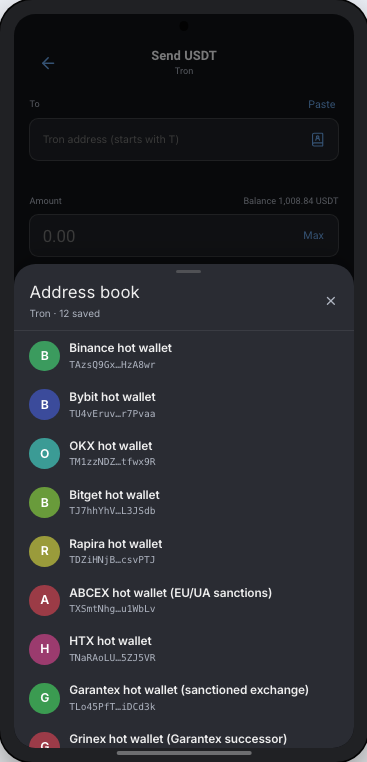
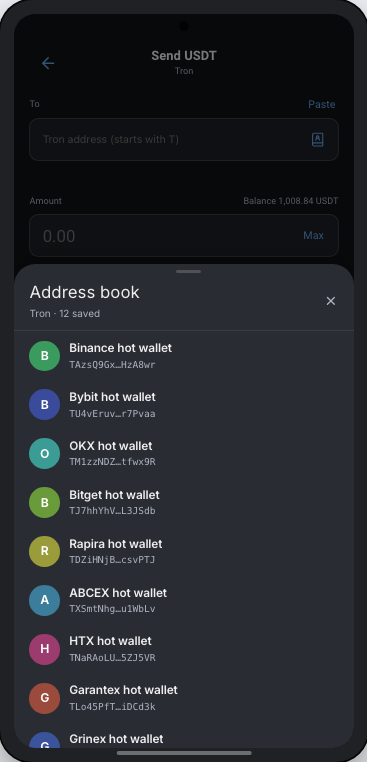
Address book: neutral comments (owner names only) and a CI guard against risk wording

diff --git a/tests/address-book.test.ts b/tests/address-book.test.ts
@@ -13,6 +13,10 @@ describe("the shipped address book (public/address-book.json)", () => {
   it("passes the strict validator: every address is valid for its network, no duplicates", async () => {
     expect(await validateAddressBook(file, subtle)).toEqual([]);
   });
+  it("names owners only: no comment states a risk reason", () => {
+    const wording = /sanction|ofac|sdn|blacklist|frozen|mixer|illicit|scam|hack|stolen/i;
+    expect(parseAddressBook(file).filter((e) => wording.test(e.comment))).toEqual([]);
+  });
   it("has entries for Tron, Ethereum and BSC, with the saved comments", () => {
     const entries = parseAddressBook(file);
     expect(entries).toHaveLength(24);
@@ -37,6 +41,10 @@ describe("validateAddressBook", () => {
     ["an empty comment", { network: "TRON", address: TRON, comment: " " }, "comment must be"],
     ["a too long comment", { network: "TRON", address: TRON, comment: "x".repeat(81) }, "comment must be"],
     ["an extra key (a score, say)", { network: "TRON", address: TRON, comment: "c", risk_score: 9 }, 'unexpected key "risk_score"'],
+    ["a risk reason in the comment (sanctions)", { network: "TRON", address: TRON, comment: "Exchange (EU sanctions)" }, "not a risk reason"],
+    ["a risk reason in the comment (OFAC SDN)", { network: "TRON", address: TRON, comment: "OFAC SDN: Someone" }, "not a risk reason"],
+    ["a risk reason in the comment (blacklist)", { network: "TRON", address: TRON, comment: "Tether blacklist" }, "not a risk reason"],
+    ["a risk reason in the comment (mixer)", { network: "ETH", address: EVM, comment: "Sanctioned mixer" }, "not a risk reason"],
     ["surrounding spaces", { network: "TRON", address: ` ${TRON}`, comment: "c" }, "without surrounding spaces"],
   ])("rejects %s", async (_why, entry, message) => {
     expect((await validateAddressBook(book([entry]), subtle)).join("\n")).toContain(message);

diff --git a/src/send/address-book-validate.ts b/src/send/address-book-validate.ts
@@ -13,6 +13,12 @@ export function isValidEvmAddress(address: string): boolean {
   return [...hex].every((c, i) => /\d/.test(c) || (parseInt(hash[i]!, 16) >= 8 ? c === c.toUpperCase() : c === c.toLowerCase()));
 }
 
+/**
+ * A saved name says WHO an address is, never WHY it might be risky: the Send screen's rule is that a reason is not
+ * disclosed anywhere, and the book sits right above the risk check. These words are therefore refused in a comment.
+ */
+export const RISK_WORDING = /sanction|ofac|\bsdn\b|blacklist|black-list|frozen|mixer|laundering|illicit|scam|hack|stolen|exploit|terror|criminal|fraud|designated/i;
+
 export async function validateAddressBook(json: unknown, subtle: SubtleCrypto | null = globalThis.crypto?.subtle ?? null): Promise<string[]> {
   const root = json as { version?: unknown; entries?: unknown } | null;
   if (!root || typeof root !== "object" || root.version !== 1 || !Array.isArray(root.entries)) return ['address book must be {"version": 1, "entries": [...]}'];
@@ -39,6 +45,8 @@ export async function validateAddressBook(json: unknown, subtle: SubtleCrypto | 
     }
     if (typeof e.comment !== "string" || e.comment.trim() === "" || e.comment.length > MAX_COMMENT_LENGTH) {
       errors.push(`${where}: comment must be 1-${MAX_COMMENT_LENGTH} characters`);
+    } else if (RISK_WORDING.test(e.comment)) {
+      errors.push(`${where}: comment must name the owner, not a risk reason (found "${RISK_WORDING.exec(e.comment)![0]}")`);
     }
   }
   return errors;

diff --git a/CONTRIBUTING.md b/CONTRIBUTING.md
@@ -283,7 +283,7 @@ this address" until the live Worker is connected.
 of the screen; dismiss with Esc, the close button, a tap on the dimmed area or by dragging it down) with the saved
 recipients for the network being sent on; choosing one fills the field exactly as typing would (so it is validated and
 risk-checked). The list is `public/address-book.json`: `{"version": 1, "entries": [{"network": "TRON" | "ETH" | "BSC",
-"address": "...", "comment": "..."}]}`, at most 200 entries, comments up to 80 characters. `npm run validate:fixtures`
+"address": "...", "comment": "..."}]}`, at most 200 entries, comments up to 80 characters that name the owner ("Binance hot wallet"), never a risk reason: CI refuses words such as sanctions, OFAC, blacklist, frozen or mixer. `npm run validate:fixtures`
 checks every address for its network (Tron Base58Check; EVM `0x` + 40 hex, EIP-55 when mixed case), rejects duplicates and
 extra keys. Send is Tron-only for now, so only the `TRON` entries are shown; `ETH` and `BSC` entries wait for EVM Send.
 
